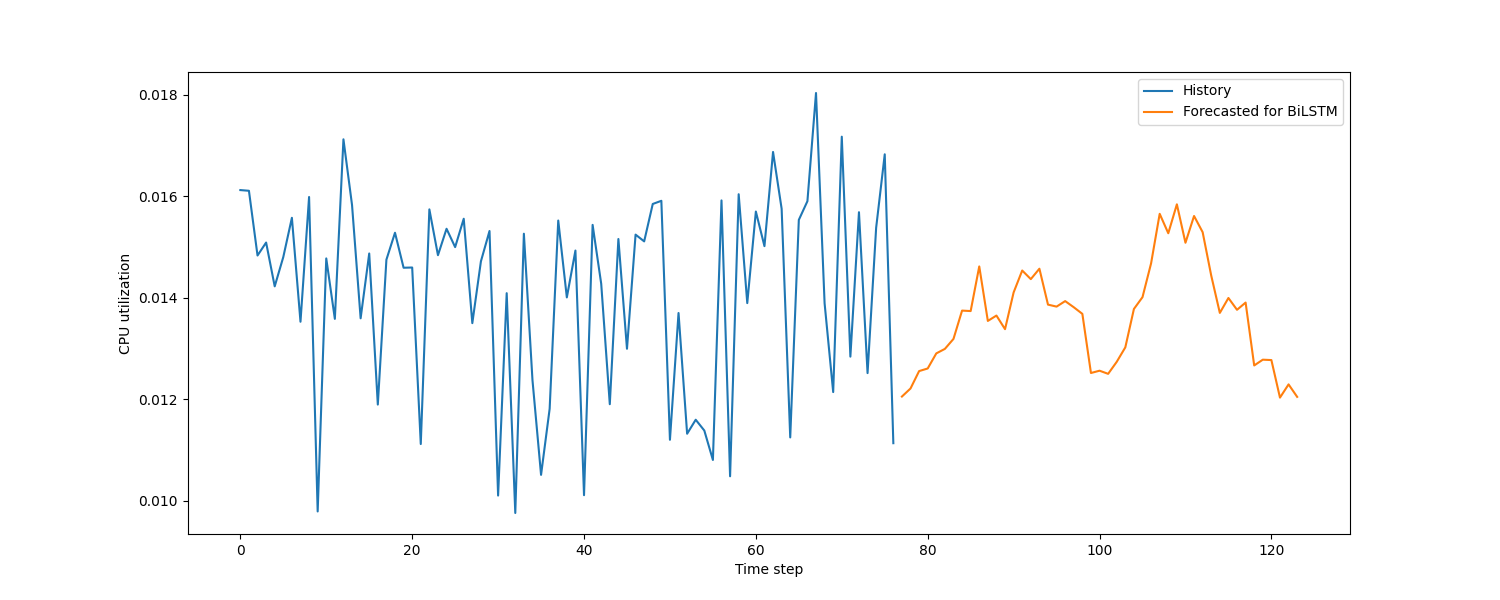
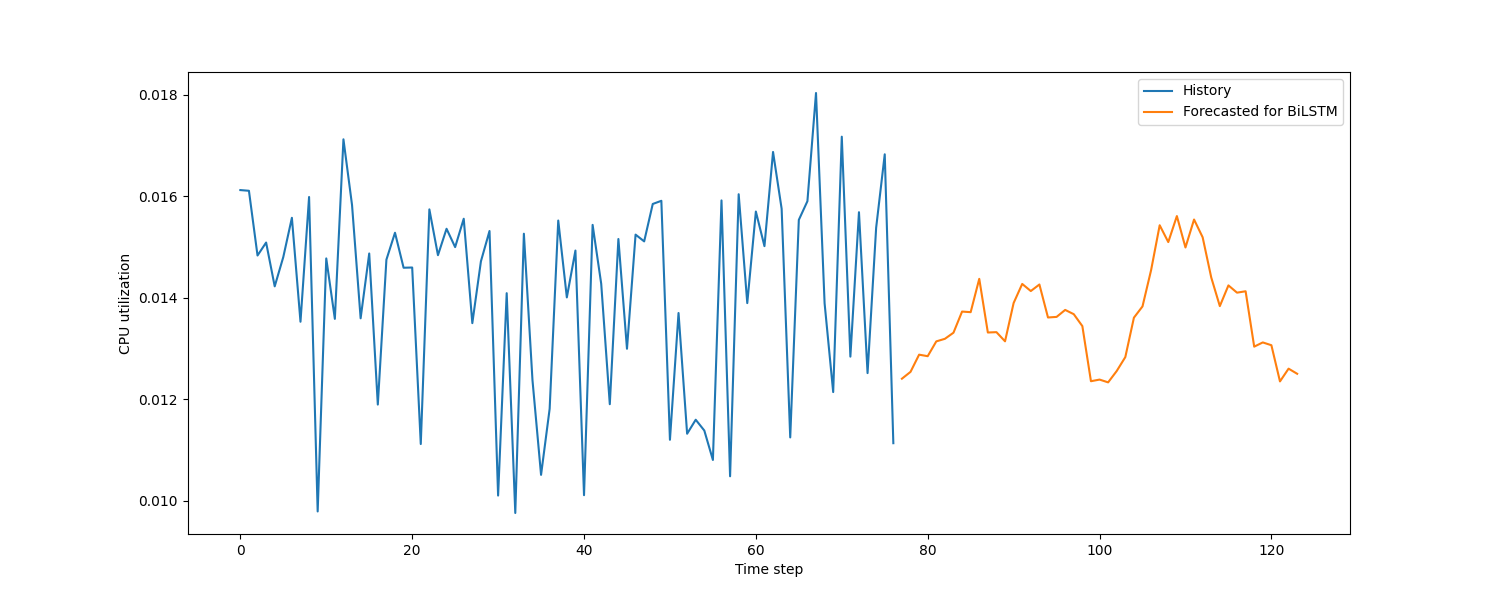
exposing the prediction array

diff --git a/src/optimize_server/app/services/cpu_prediction_service.py b/src/optimize_server/app/services/cpu_prediction_service.py
@@ -104,7 +104,7 @@ async def make_pod_predictions_CPU(pod_name:str):
 
     plot_multi_step(train_data,prediction_bilstm,'cpu')
     # plot_multi_step(train_data,prediction_bilstm,'cpu')
-    res = max(prediction_bilstm).tolist()[0]
+    res = prediction_bilstm.tolist()
     return {"res":res}
     
 # async def data_load_cpu():

diff --git a/src/optimize_server/app/services/network_prediction_service.py b/src/optimize_server/app/services/network_prediction_service.py
@@ -55,7 +55,7 @@ async def make_pod_predictions_NETWORK(pod_name:str):
 
     plot_multi_step(train_data,prediction_bilstm,'net')
     # plot_multi_step(train_data,prediction_bilstm,'cpu')
-    res = max(prediction_bilstm).tolist()[0]
+    res = prediction_bilstm.tolist()
     return {"res":res}
 
 

diff --git a/src/optimize_server/app/services/memory_prediction_service.py b/src/optimize_server/app/services/memory_prediction_service.py
@@ -57,7 +57,7 @@ async def make_pod_predictions_MEMORY(pod_name:str):
 
     plot_multi_step(train_data,prediction_bilstm,'mem')
     # plot_multi_step(train_data,prediction_bilstm,'cpu')
-    res = max(prediction_bilstm).tolist()[0]
+    res = prediction_bilstm.tolist()
     return {"res":res}
 
 
